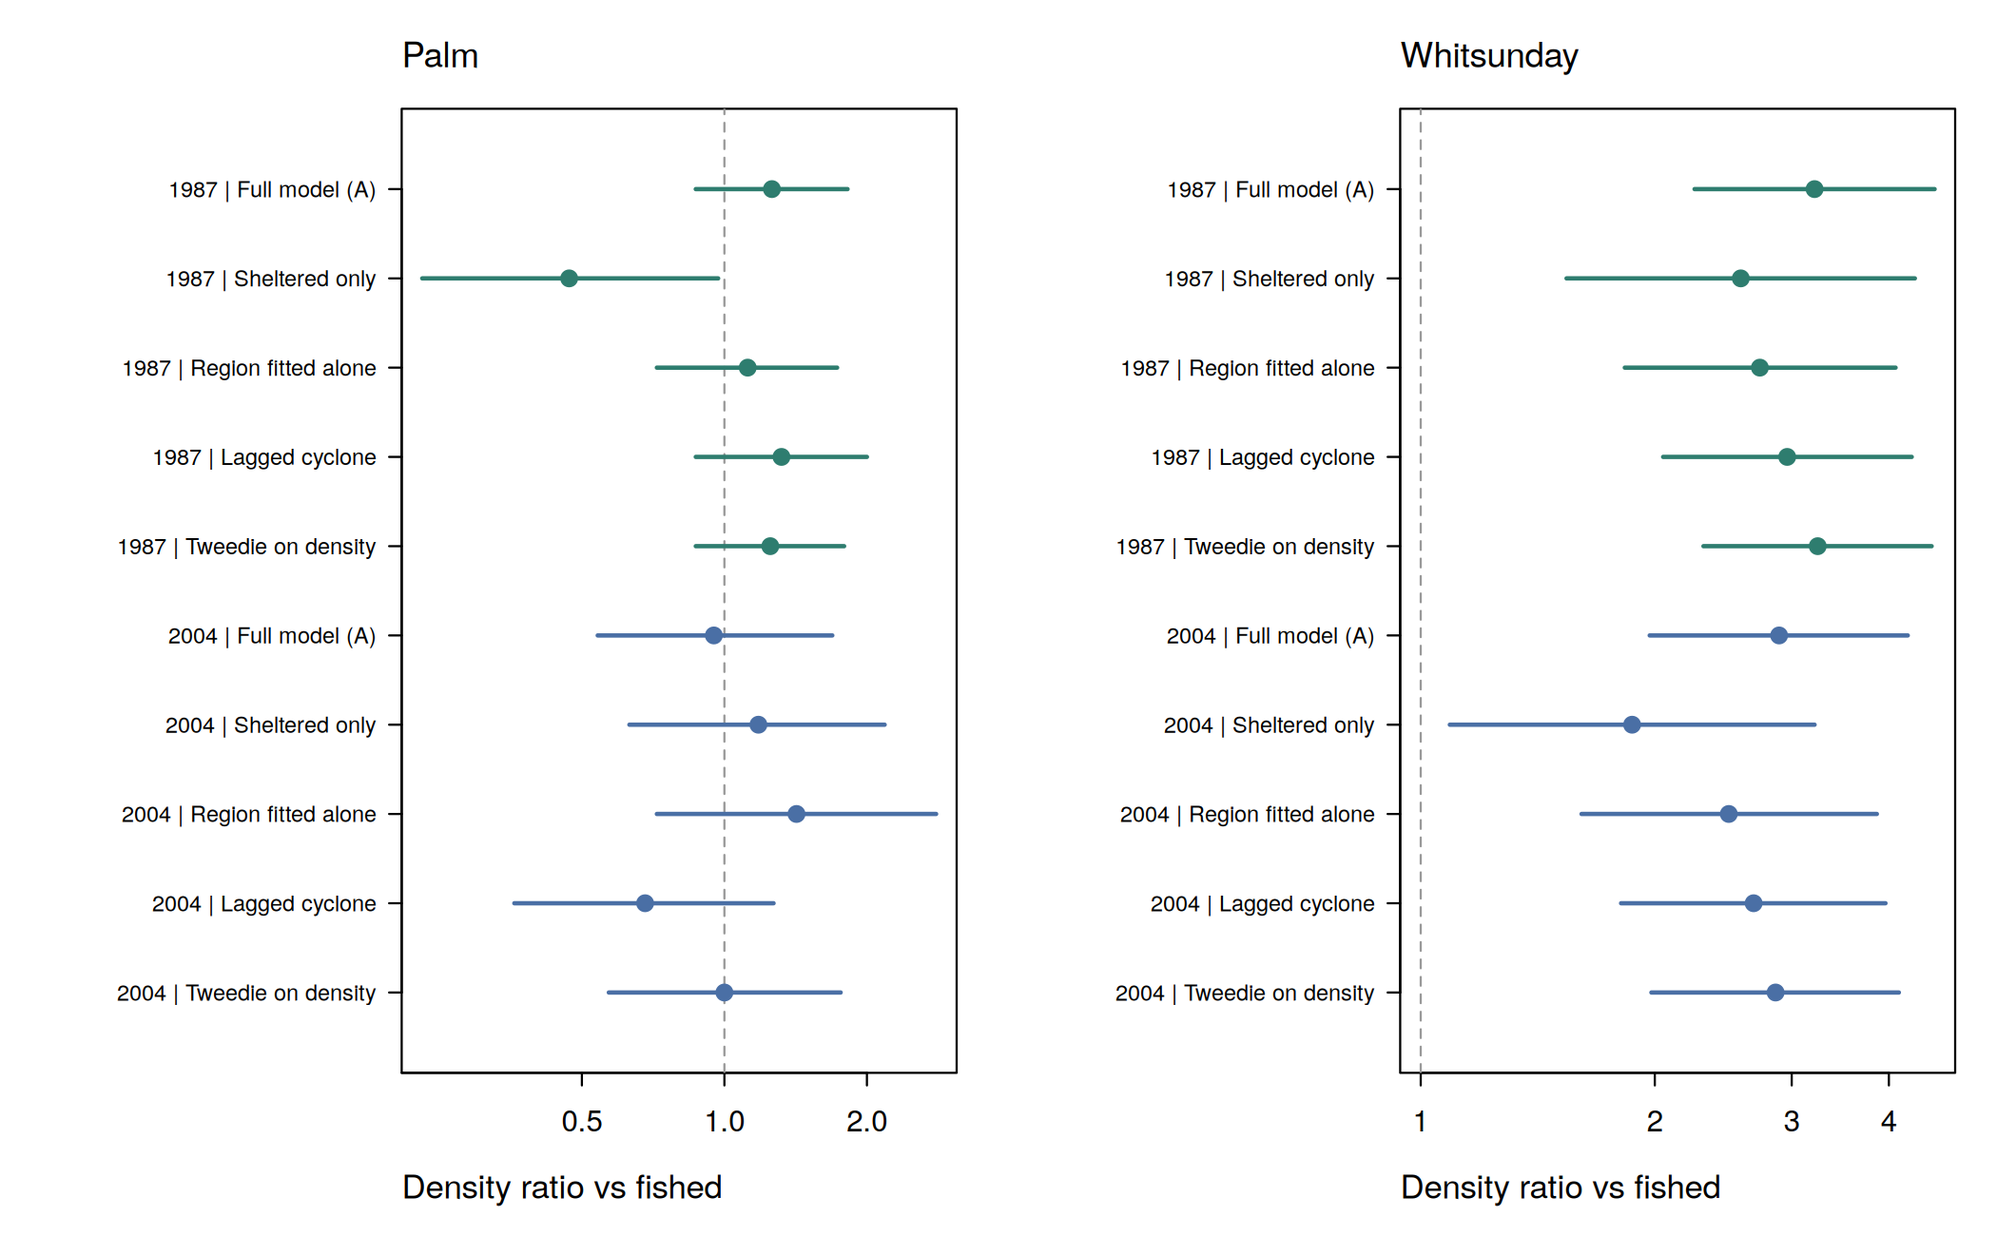
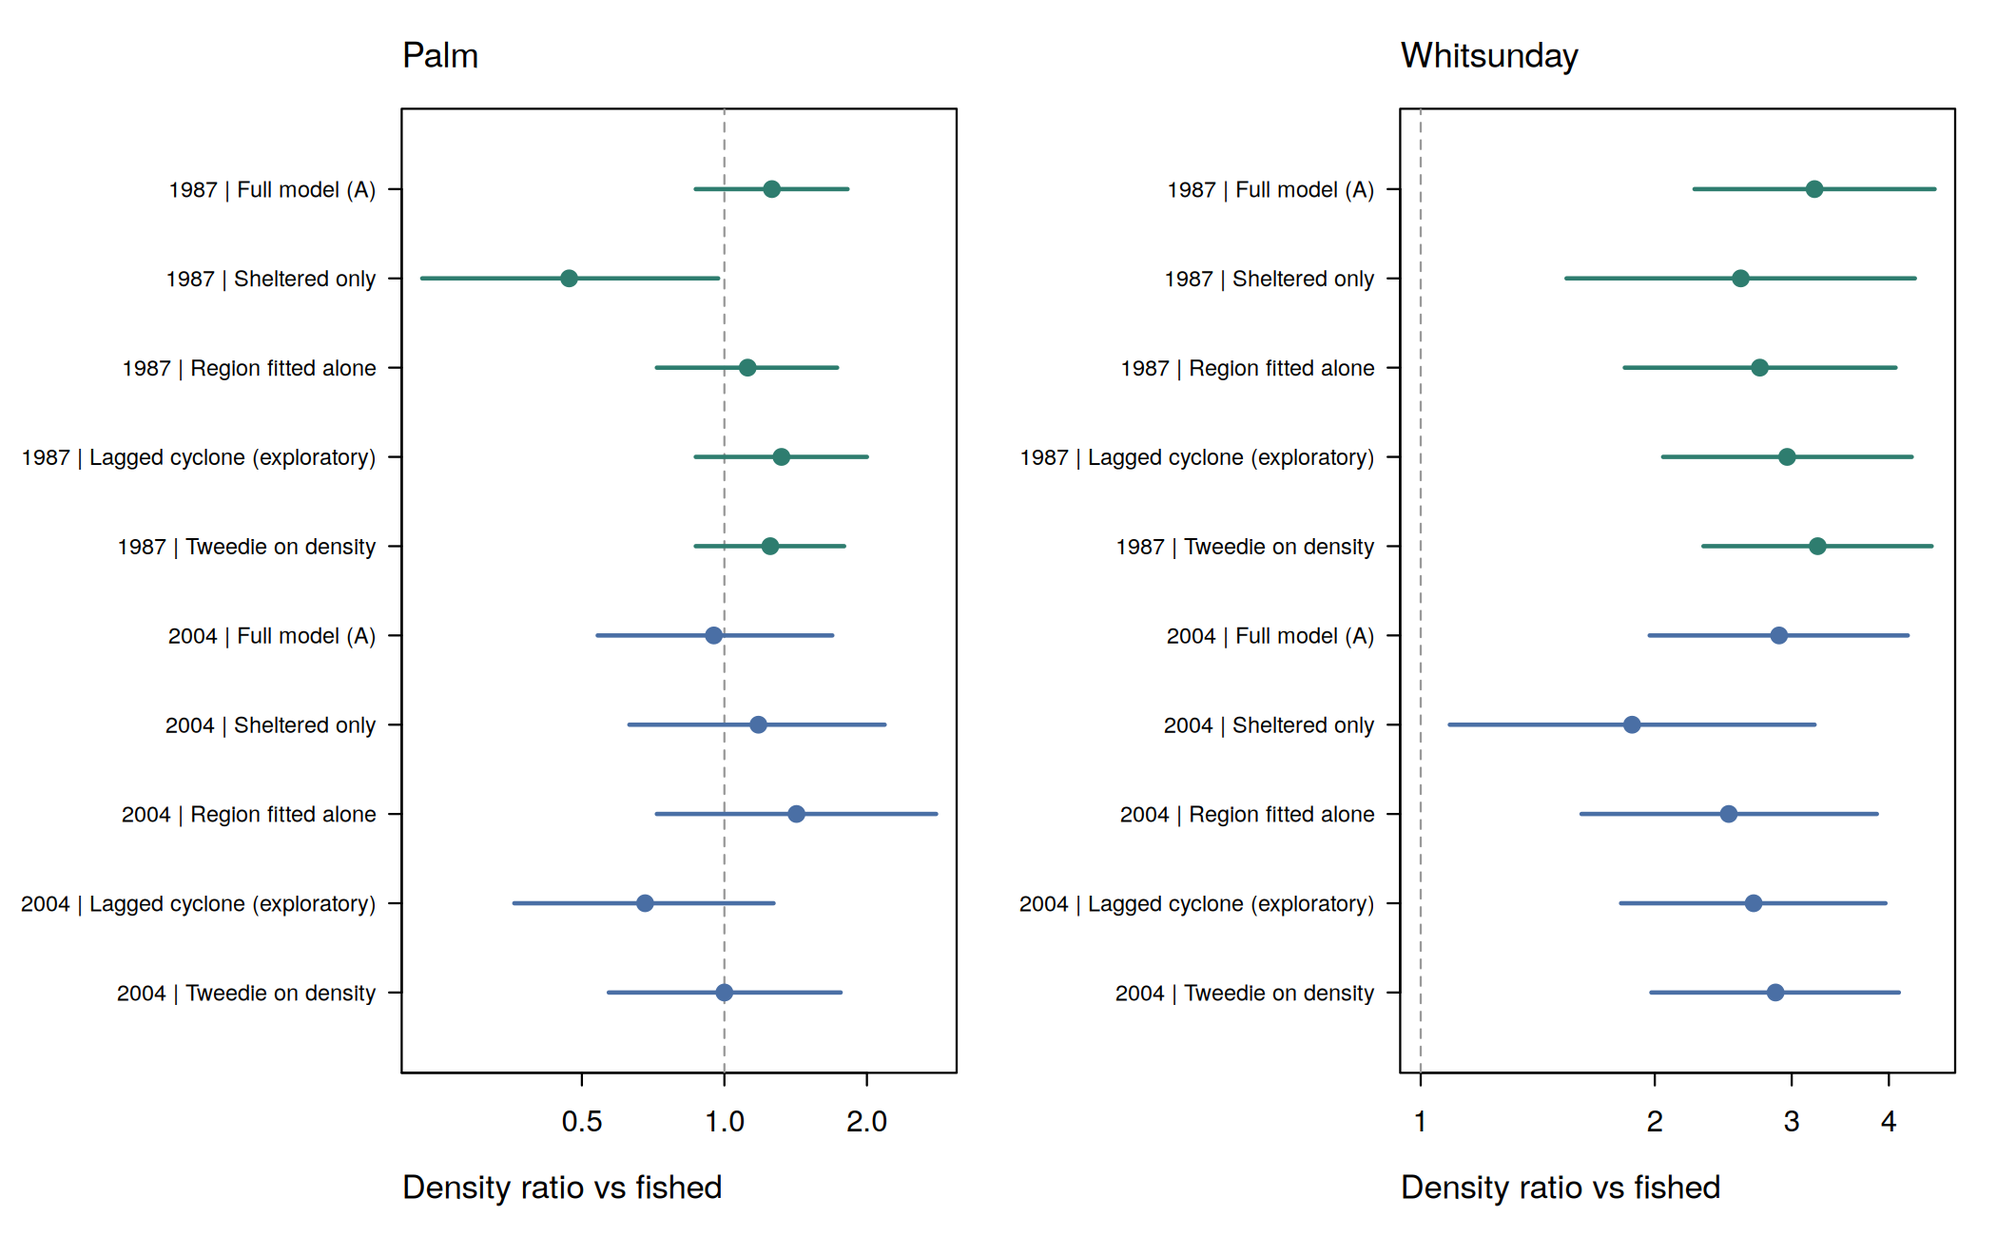
Downgrade the cross-validated Q2 result to exploratory; soften the zeros claim
Six refinements from review. One is a substantive limitation now stated rather than
fixed; the rest are wording.

The cross-validated Q2 result is exploratory, not inference. Two defects, neither
corrected here. Its standard error treats the 467 held-out observations as independent
when they cluster within 71 sites, so the reported z of 4.96 is optimistic. And
predictions for an unseen site set the random effect to zero rather than integrating
over N(0, sigma^2); under a log link the prediction at the median of that distribution
is not its mean. The direction is not in doubt — knowing an unseen site's zoning
improves prediction and nothing else measurably does — but the magnitude and the z are,
and both fixes require rerunning Step 2.

The claim that excess zeros cannot manufacture the result is withdrawn. What is
supported is narrower: the two sensitivities available did not materially change the
estimate. No hurdle or zero-inflated negative binomial was fitted, and that refit is
what would settle it.

The lagged cyclone check is labelled exploratory. The plan names five checks and this is
not among them; it was substituted after the fact for the cyclone integration the plan
asked for, which the extract cannot support. The plan's fourth check, with and without
Whitsunday 2017, is covered by the leave-one-region-year-out analysis, now said
explicitly.

The Stage 1 note reports the anomaly count correctly: 18 rows in the extract, 17 in
[…]

diff --git a/Stage1/README.md b/Stage1/README.md
@@ -32,12 +32,15 @@ together as a null:
 
 The five specifications are: the full model, restriction to the sheltered stratum,
 each region fitted alone, a lagged cyclone term, and a Tweedie refit on the density
-scale.
+scale. Four of those were named in the project plan before anything was run. The
+**lagged cyclone term was not** — it is exploratory, substituted after the fact for the
+cyclone integration the plan asked for, which this extract cannot support because
+exposure is recorded only at survey points.
 
 The one exception matters and is not buried. Restricted to sheltered sites — the
 specification that handles the exposure confound by design rather than by adjustment —
-Palm NTR 1987 is **0.47 (0.23–0.97)**, significantly *below* 1, where every other
-specification puts it between 1.1 and 1.4. It rests on six fished and five reserve
+Palm NTR 1987 is **0.47 (0.23–0.97)**, below 1 though its interval reaches close to
+it, where every other specification puts it between 1.1 and 1.4. It rests on six fished and five reserve
 sites. The plan's own rule for this check was to distrust the adjusted estimate when
 the restriction disagrees, so the honest reading is that Palm is unresolved rather than
 null. Whitsunday is unaffected: the same restriction gives 2.58 (1.54–4.32).
@@ -58,8 +61,16 @@ measured in a model with no random effect, which conflated management with every
 fixed about a site. Both are documented in `DECISIONS.md`.
 
 What is reported instead is a drop-one-block comparison at fixed dispersion —
-descriptive, non-additive, not variance shares — and out-of-sample prediction to sites
-the model has never seen, which is the one comparison the overlap does not spoil.
+descriptive, non-additive, not variance shares — and, as an **exploratory** result, an
+out-of-sample comparison predicting to sites the model has never seen.
+
+That second one is flagged exploratory for two specific reasons, both of which would
+have to be fixed before it could be quoted as inference. Its standard error is computed
+across the 467 held-out observations as though they were independent, when they cluster
+within 71 sites, so the reported z is optimistic. And predictions for an unseen site set
+its random effect to zero rather than integrating over the random-effect distribution;
+under a log link those are not the same thing, and the second is the correct predictive
+density. Both are fixable and neither has been fixed yet.
 
 **Habitat does not predict density.** None of rugosity (p = 0.097), live hard coral
 (p = 0.375) or depth (p = 0.099) is significant, and none survives a multiplicity
@@ -73,9 +84,15 @@ excluding 1 in any case once smoothing-parameter uncertainty is admitted.
 bootstrap that refits every replicate and redraws the site effects from their estimated
 distribution, the data hold about 16 more zeros than the model expects, against a
 simulated distribution centred near 1 (p = 0.003, 300 replicates). It is a limitation on
-the distributional form — a hurdle or zero-inflated model belongs in any second version.
-It does not drive the result: excess zeros inflate apparent overdispersion, which widens
-intervals rather than narrowing them.
+the distributional form.
+
+What can be said about its consequences is narrower than it might appear. The two
+sensitivities available here — trimming the mostly-zero site, and giving sites their own
+time trajectory — did not materially change the estimate, and there is a general argument
+that a zero excess inflates apparent overdispersion and so widens intervals rather than
+narrowing them. But **no hurdle or zero-inflated negative binomial was fitted**, and that
+is the refit that would actually settle it. The honest statement is that the checks that
+were run did not move the estimate, not that the misfit is harmless.
 
 **Residual temporal correlation: unresolved.** The most negative residual correlation
 across the eleven survey gaps is −0.376, against a simulated null centred on −0.259
@@ -101,13 +118,22 @@ randomised quantile residuals, so anything computed from them depends on the see
 earlier single-seed run reported I = 0.146, p = 0.007, which overstated it. Suggestive,
 not conclusive.
 
-**Only one environmental term is left standing, and not firmly.** Intervals here use
-the unconditional covariance matrix, which admits the uncertainty in the smoothing
-parameters. Under it, rugosity (1.27, 0.98–1.64), turbidity (0.75, 0.55–1.01) and
-cyclone exposure (0.85, 0.67–1.06) all cease to exclude 1. Only the thermal term does,
-at 0.68 (0.48–0.96), and it is the only environmental term to survive a multiplicity
-correction as well. Turbidity and rugosity are also unstable to which single survey is
-omitted (p = 0.005–0.126 and 0.021–0.192).
+**Only one environmental term is left standing, and it should be read cautiously.**
+Intervals here use the unconditional covariance matrix, which admits the uncertainty in
+the smoothing parameters. Under it, rugosity (1.27, 0.98–1.64), turbidity (0.75,
+0.55–1.01) and cyclone exposure (0.85, 0.67–1.06) all cease to exclude 1. Only the
+thermal term does, at 0.68 (0.48–0.96), and it is the only environmental term to survive
+the multiplicity correction as well.
+
+That is a weaker position than "one effect established". `s(maxDHW)` has worst-case
+concurvity 0.951 against the region-specific year trends, so its coefficient is one
+possible split of variation those terms share rather than an independently identified
+effect — and the year smooths themselves carry a basis-dimension flag that does not
+clear at the largest k the survey years allow. The thermal association is consistent
+with the data and is not established by them. Turbidity is unresolved on three separate
+grounds: its interval includes 1, its p-value ranges 0.005–0.126 depending on which
+single survey is omitted, and its own basis flag does not clear at k = 20. Rugosity is
+likewise unstable (p = 0.021–0.192).
 
 **The thermal curve is only half identified.** `s(maxDHW)` is significant, but the
 fitted curve rises above 4 degree heating weeks — where Whitsunday 2017 is the only
@@ -223,7 +249,9 @@ and turned up three diagnostics that had never been run. All of it is in
   of the 18 sites surveyed, by factors of 2.1 to 6.8, and implied mean weight of legal
   fish is 0.30 kg against 1.10–2.17 kg in every other region-year. Total density
   recovers cleanly on the same step, so survey area is unchanged, and the discrepancy
-  is not a constant multiple. Is this known?
+  is not a constant multiple. Is this known? (The whole extract holds 18 such rows: the
+  eighteenth is Whitsunday 2018 site HY3, excess 0.0018 — a rounding artefact, not the
+  same thing.)
 
 ## Data
 

diff --git a/Stage1/outputs/tables.md b/Stage1/outputs/tables.md
@@ -112,12 +112,24 @@ the site random effect.
 
 ## Table 15 — Out-of-sample prediction to unseen sites (Step 2)
 
-The one Q2 comparison the management/site overlap does not spoil. Ten folds split by
-site, so a site is never in both training and test. Each model is fitted on the training
-sites and scored on held-out sites by negative binomial log predictive density, with the
-random effect set to zero — an unseen site has no intercept to estimate, so the fixed
-effects carry the prediction alone. Total log predictive density of the full model
+**Exploratory.** This is the one Q2 comparison the management/site overlap does not
+spoil, but two corrections are outstanding and it should not be quoted as inference
+until they are made. Ten folds split by site, so a site is never in both training and
+test. Each model is fitted on the training sites and scored on held-out sites by
+negative binomial log predictive density. Total log predictive density of the full model
 across all held-out sites: −1232.3.
+
+What needs fixing, precisely:
+
+1. **The standard error is not clustered.** It is computed across the 467 held-out
+   observations as though they were independent, when they cluster within 71 sites. A
+   site-level standard error — aggregating the per-observation difference within each
+   site before taking the spread across sites — would be larger, and the z below
+   correspondingly smaller.
+2. **Unseen-site random effects are set to zero rather than integrated.** Under a log
+   link, the prediction at the median of the random-effect distribution is not its mean.
+   The correct predictive density integrates over N(0, σ²) rather than evaluating at
+   zero, which shifts every predicted mean upward and changes the density.
 
 | Block removed | Loss in log predictive density | SE | Per observation | z |
 |---|---:|---:|---:|---:|
@@ -127,9 +139,11 @@ across all held-out sites: −1232.3.
 | Regional year trends | −3.4 | 8.6 | −0.007 | −0.40 |
 | Wave exposure (confounder) | −9.7 | 2.7 | −0.021 | −3.59 |
 
-Knowing an unseen site's zoning improves the prediction of its counts substantially.
-Nothing else measurably does; wave exposure makes it slightly worse, which is what an
-adjustment term carried for confounding control rather than for prediction can do.
+The direction is clear — knowing an unseen site's zoning improves the prediction of its
+counts, and nothing else measurably does; wave exposure makes it slightly worse, which
+is what an adjustment term carried for confounding control rather than for prediction
+can do. The **magnitude and the z should be treated as indicative only** until the two
+corrections above are applied.
 
 **How not to read this.** It is a predictive statement. It does not partition variance,
 the entries do not sum to the model's performance, and it cannot be used to argue that
@@ -161,7 +175,13 @@ neither is reliably distinguishable from zero.
 
 Density ratio against fished sites, 95% intervals.
 
-| Region | Protection | Full (A) | Sheltered only | Region alone | Lagged cyclone | Tweedie |
+Four of these five were named in the project plan before anything was run. The
+**lagged cyclone column is exploratory** — it was substituted after the fact for the
+cyclone integration the plan asked for, which this extract cannot support because
+exposure is recorded only at survey points. The plan's remaining prespecified check,
+with and without Whitsunday 2017, is covered by table 6.
+
+| Region | Protection | Full (A) | Sheltered only | Region alone | Lagged cyclone (exploratory) | Tweedie |
 |---|---|---|---|---|---|---|
 | Palm | NTR 1987 | 1.26 (0.87–1.82) | **0.47 (0.23–0.97)** | 1.12 (0.72–1.73) | 1.32 (0.87–2.00) | 1.25 (0.87–1.79) |
 | Palm | NTR 2004 | 0.95 (0.54–1.69) | 1.18 (0.63–2.18) | 1.42 (0.72–2.80) | 0.68 (0.36–1.27) | 1.00 (0.57–1.76) |
@@ -346,9 +366,14 @@ p is computed as (extreme + 1) / (B + 1) and is never zero; the smallest attaina
 value with 300 replicates is 0.0033.
 
 **Zeros: a real excess.** About 16 more zeros than the model expects. The negative
-binomial is not a complete description of the zero process; a hurdle or zero-inflated
-formulation belongs in a second version. It does not drive the result — excess zeros
-inflate apparent overdispersion, which widens intervals rather than narrowing them.
+binomial is not a complete description of the zero process.
+
+On consequences, the narrow claim only: the two sensitivities in table 16 did not
+materially change the estimate, and there is a general argument that a zero excess
+inflates apparent overdispersion and so widens intervals rather than narrowing them.
+**No hurdle or zero-inflated negative binomial was fitted**, and that refit is what
+would settle it. What is supported is that the checks that were run did not move the
+estimate — not that the misfit is harmless.
 
 **Residual temporal correlation: unresolved.** p = 0.080 falls between 0.01 and 0.10 and
 is reported as uncertain rather than pushed across a threshold. An earlier version
@@ -383,6 +408,12 @@ flexibility, not a change in the estimate.
 Step 1 checked this for the baseline; the final model had never been checked the same
 way. Deciles of fitted value, with the standard error of the observed mean in each bin.
 
+The **z column is descriptive, not a test.** The bins are defined by the fitted values
+themselves, the ten are not independent, and no multiplicity or selection adjustment is
+applied — so |z| > 2 in one bin is not a rejection. Read it as a scale for how far each
+bin sits from its prediction relative to the noise in that bin, and read the pattern
+across bins rather than any single value.
+
 | Bin (fitted) | n | Fitted mean | Observed mean | SE | z |
 |---|---:|---:|---:|---:|---:|
 | 0.57 – 1.80 | 47 | 1.34 | 0.91 | 0.21 | −2.05 |
@@ -396,9 +427,10 @@ way. Deciles of fitted value, with the standard error of the observed mean in ea
 | 9.06 – 11.8 | 47 | 10.21 | 10.64 | 0.64 | 0.67 |
 | 11.8 – 24.8 | 47 | 15.64 | 15.98 | 0.86 | 0.40 |
 
-One bin is flagged: the lowest, where the model over-predicts slightly (z = −2.05). That
-is the same phenomenon the zero test picks up, seen from the other side. Elsewhere the
-mean structure tracks the data closely.
+The lowest bin is the one to watch: the model over-predicts there (z = −2.05), which is
+the zero excess of table 13 seen from another angle rather than a separate problem.
+Elsewhere the mean structure tracks the data closely, with no systematic drift across
+the range.
 
 ## Table 18 — Basis dimension, tested rather than asserted (Step 5)
 

diff --git a/Stage1/DECISIONS.md b/Stage1/DECISIONS.md
@@ -419,3 +419,68 @@ out exposure as the explanation, but reserve placement was not random and no
 observational check here establishes that whatever else distinguishes the zoned sites is
 innocuous. Palm is unresolved, not null. Q2 yields no identifiable management
 percentage.
+
+---
+
+## Review refinements, 2026-09-07 (same day)
+
+Six points from review. Five are wording; one is a substantive limitation now stated
+rather than fixed.
+
+**The cross-validated Q2 result is downgraded to exploratory.** Two defects, neither
+corrected:
+
+1. Its standard error treats the 467 held-out observations as independent when they
+   cluster within 71 sites, so the reported z of 4.96 is optimistic. A site-clustered
+   standard error would be larger.
+2. Predictions for an unseen site set the random effect to zero rather than integrating
+   over N(0, sigma^2). Under a log link the prediction at the median of that
+   distribution is not its mean, so the quantity being scored is not quite the
+   predictive density it is described as.
+
+The direction — that knowing an unseen site's zoning improves prediction and nothing
+else measurably does — is not in doubt. The magnitude and the z are. Both defects are
+straightforward to fix and doing so requires rerunning Step 2; that has not been done,
+and the result is labelled exploratory everywhere it appears rather than quietly
+carried at full weight.
+
+**The claim that excess zeros cannot manufacture the result is withdrawn.** What is
+supported is narrower: the two sensitivities available — trimming the mostly-zero site,
+and giving sites their own time trajectory — did not materially change the estimate, and
+a zero excess inflates apparent overdispersion, which widens intervals rather than
+narrowing them. But **no hurdle or zero-inflated negative binomial was fitted**, and that
+refit is the one that would settle it. The reports now say the checks that were run did
+not move the estimate, and stop there.
+
+**The Stage 1 note now reports the anomaly count correctly.** 18 rows in the extract
+where legal density exceeds total density: 17 in Keppel 2021 at factors of 2.1 to 6.8,
+and one in Whitsunday 2018 site HY3 where the excess is 0.0018 — a rounding artefact,
+not the same phenomenon. The note previously attributed all 18 to Keppel 2021.
+
+**The lagged cyclone check is labelled exploratory.** Section 10 of the plan names five
+checks and a lagged cyclone term is not among them; it was substituted after the fact for
+the cyclone integration the plan did ask for, which the extract cannot support. It now
+appears as an exploratory column rather than as one of the five. The plan's fourth check,
+with and without Whitsunday 2017, is covered by the leave-one-region-year-out analysis,
+and that is now said explicitly instead of left implicit.
+
+**Thermal and environmental conclusions are stated more cautiously.** The thermal term
+survives both the unconditional interval and the multiplicity correction, but its
+worst-case concurvity against the region-specific year trends is 0.951, and those year
+smooths themselves carry a basis flag that does not clear at k = 6, the largest the
+survey years allow. Two of the terms competing for the same variation are imperfectly
+specified. The association is consistent with the data rather than established by them,
+and should not be quoted as a quantity without the concurvity alongside it.
+
+**Observed-against-fitted z values are labelled descriptive.** The bins are defined by
+the fitted values, the ten are not independent, and no selection or multiplicity
+adjustment is applied, so |z| > 2 in one bin is not a rejection of anything. The lowest
+bin's z of −2.05 is the zero excess seen from another angle rather than a separate
+finding.
+
+**Figure 16.** Panel a's axis label was clipped at the panel edge; shortened.
+
+Steps 3 and 5 were rerun twice each to regenerate what these changes touch, and produce
+byte-identical output across the two runs. Steps 1, 2 and 4 were not rerun and their
+outputs are unchanged from the two full clean runs recorded above; a file-by-file
+comparison confirms that only the step 3 and step 5 outputs differ.
